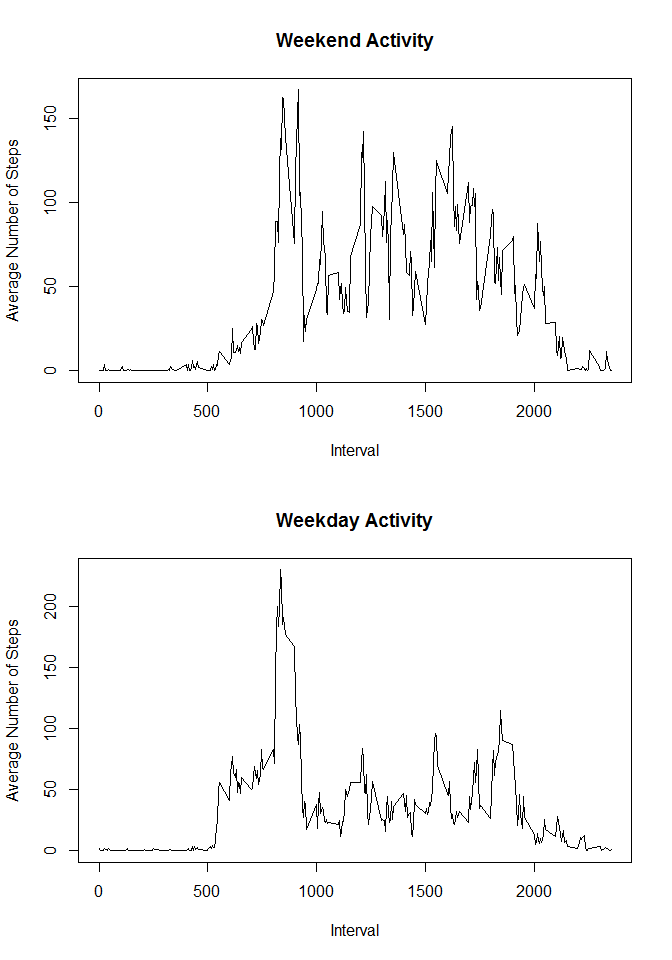
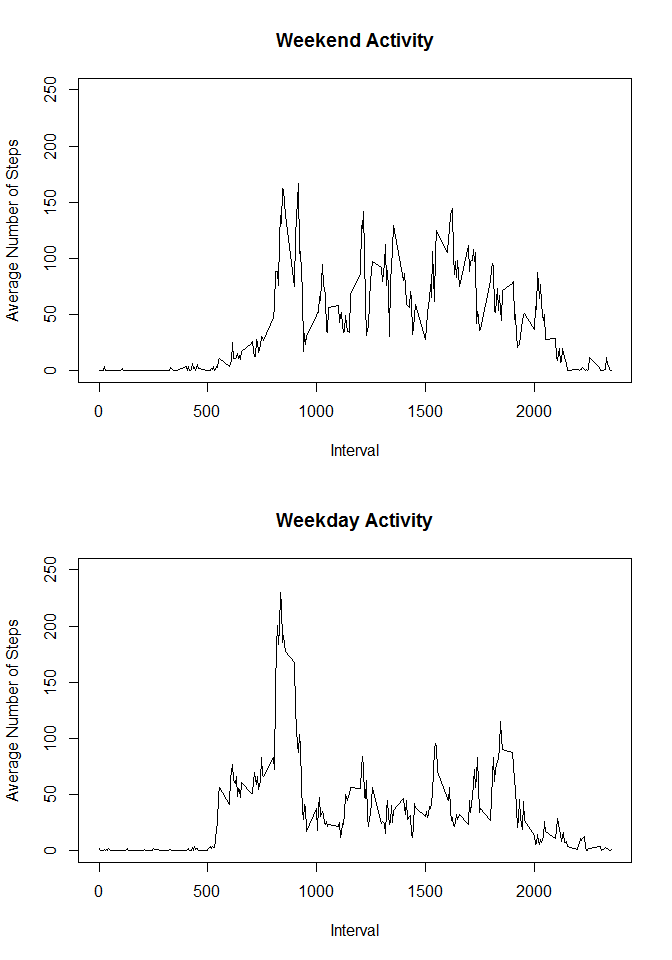
Updated plots to use same y-axis limits

diff --git a/PA1_template.html b/PA1_template.html
@@ -173,15 +173,17 @@ plot(averageStepsPerIntervalWeekend$interval,
      type = &quot;l&quot;,
      main = &quot;Weekend Activity&quot;,
      xlab = &quot;Interval&quot;,
-     ylab = &quot;Average Number of Steps&quot;)
+     ylab = &quot;Average Number of Steps&quot;,
+     ylim = c(0,250))
 
 plot(averageStepsPerIntervalWeekday$interval,
      averageStepsPerIntervalWeekday$steps,
      type = &quot;l&quot;,
      main = &quot;Weekday Activity&quot;,
      xlab = &quot;Interval&quot;,
-     ylab = &quot;Average Number of Steps&quot;)</code></pre>
[1 lines of base64/hex data omitted]
+     ylab = &quot;Average Number of Steps&quot;,
+     ylim = c(0,250))</code></pre>
[1 lines of base64/hex data omitted]
 </div>
 </div>
 

diff --git a/PA1_template.md b/PA1_template.md
@@ -143,14 +143,16 @@ plot(averageStepsPerIntervalWeekend$interval,
      type = "l",
      main = "Weekend Activity",
      xlab = "Interval",
-     ylab = "Average Number of Steps")
+     ylab = "Average Number of Steps",
+     ylim = c(0,250))
 
 plot(averageStepsPerIntervalWeekday$interval,
      averageStepsPerIntervalWeekday$steps,
      type = "l",
      main = "Weekday Activity",
      xlab = "Interval",
-     ylab = "Average Number of Steps")
+     ylab = "Average Number of Steps",
+     ylim = c(0,250))
 ```
 
 ![](PA1_template_files/figure-html/unnamed-chunk-12-1.png) 
